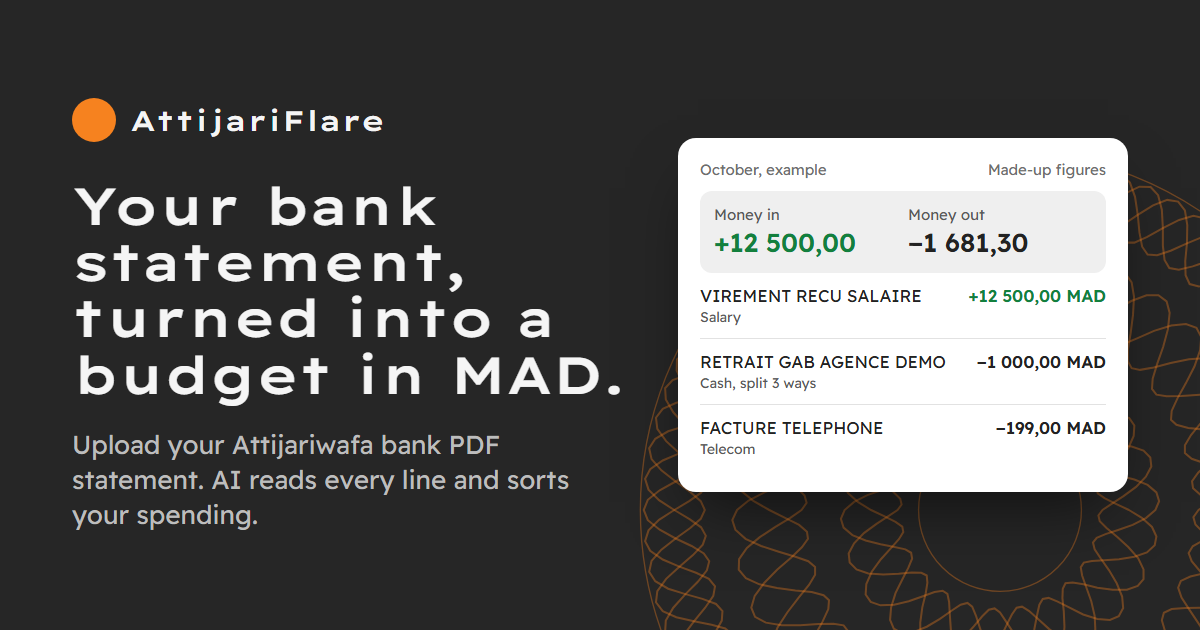
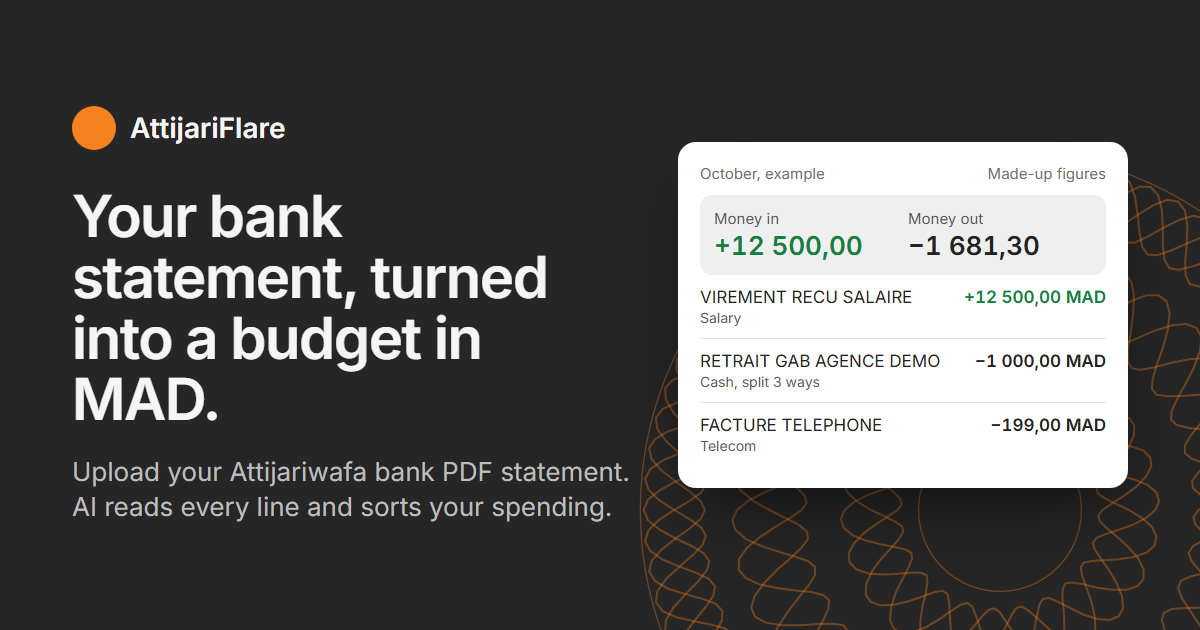
Switch the UI font to Inter with Noto Sans Arabic for Arabic text
Readex Pro is replaced by Inter (variable, self-hosted) and Noto Sans Arabic, which
only loads when Arabic characters appear. The OG image is regenerated with Inter.

diff --git a/apps/web/src/styles.css b/apps/web/src/styles.css
@@ -1,4 +1,5 @@
-@import "@fontsource-variable/readex-pro/full.css";
+@import "@fontsource-variable/inter/wght.css";
+@import "@fontsource-variable/noto-sans-arabic/wght.css";
 @import "tailwindcss";
 
 /*
@@ -64,7 +65,7 @@
 }
 
 @theme {
-  --font-sans: "Readex Pro Variable", "Segoe UI", system-ui, sans-serif;
+  --font-sans: "Inter Variable", "Noto Sans Arabic Variable", "Segoe UI", system-ui, sans-serif;
 
   --text-xs: 0.8125rem;
   --text-xs--line-height: 1.35;
@@ -142,9 +143,8 @@
   h1,
   h2,
   h3 {
-    font-variation-settings: "HEXP" 40;
     text-wrap: balance;
-    letter-spacing: -0.01em;
+    letter-spacing: -0.02em;
   }
 
   ::selection {

diff --git a/apps/web/src/routes/login.tsx b/apps/web/src/routes/login.tsx
@@ -26,10 +26,7 @@ export default function Login() {
             draw
             class="pointer-events-none absolute -top-24 -right-24 size-[30rem] text-flare/35"
           />
-          <p
-            class="relative max-w-[18ch] text-3xl leading-tight font-semibold"
-            style={{ "font-variation-settings": '"HEXP" 60' }}
-          >
+          <p class="relative max-w-[18ch] text-3xl leading-tight font-semibold">
             Every dirham from your statements, in its place.
           </p>
           <p class="relative mt-4 max-w-[44ch] text-rail-ink-soft">

diff --git a/apps/web/src/components/shell.tsx b/apps/web/src/components/shell.tsx
@@ -56,7 +56,6 @@ function Wordmark(props: { class?: string }) {
     <a
       href="/"
       class={`inline-flex items-center gap-2.5 rounded-control font-semibold ${props.class ?? ""}`}
-      style={{ "font-variation-settings": '"HEXP" 80' }}
     >
       <span class="grid size-8 place-items-center rounded-full bg-flare/15 text-flare">
         <Guilloche class="size-7" />

diff --git a/apps/web/src/routes/index.tsx b/apps/web/src/routes/index.tsx
@@ -313,7 +313,6 @@ function Hero(props: { signedIn: boolean }) {
           <h1
             id="hero-title"
             class="mt-3 max-w-[17ch] text-3xl leading-[1.08] font-semibold sm:text-[2.75rem]"
-            style={{ "font-variation-settings": '"HEXP" 70' }}
           >
             Your bank statement, turned into a budget in MAD.
           </h1>

diff --git a/apps/web/src/Document.tsx b/apps/web/src/Document.tsx
@@ -1,7 +1,7 @@
 import { HydrationScript } from "@solidjs/web";
 import type { ParentProps } from "solid-js";
 
-import latinFont from "@fontsource-variable/readex-pro/files/readex-pro-latin-full-normal.woff2?url";
+import latinFont from "@fontsource-variable/inter/files/inter-latin-wght-normal.woff2?url";
 
 import { THEME_SCRIPT } from "~/lib/theme";
 
